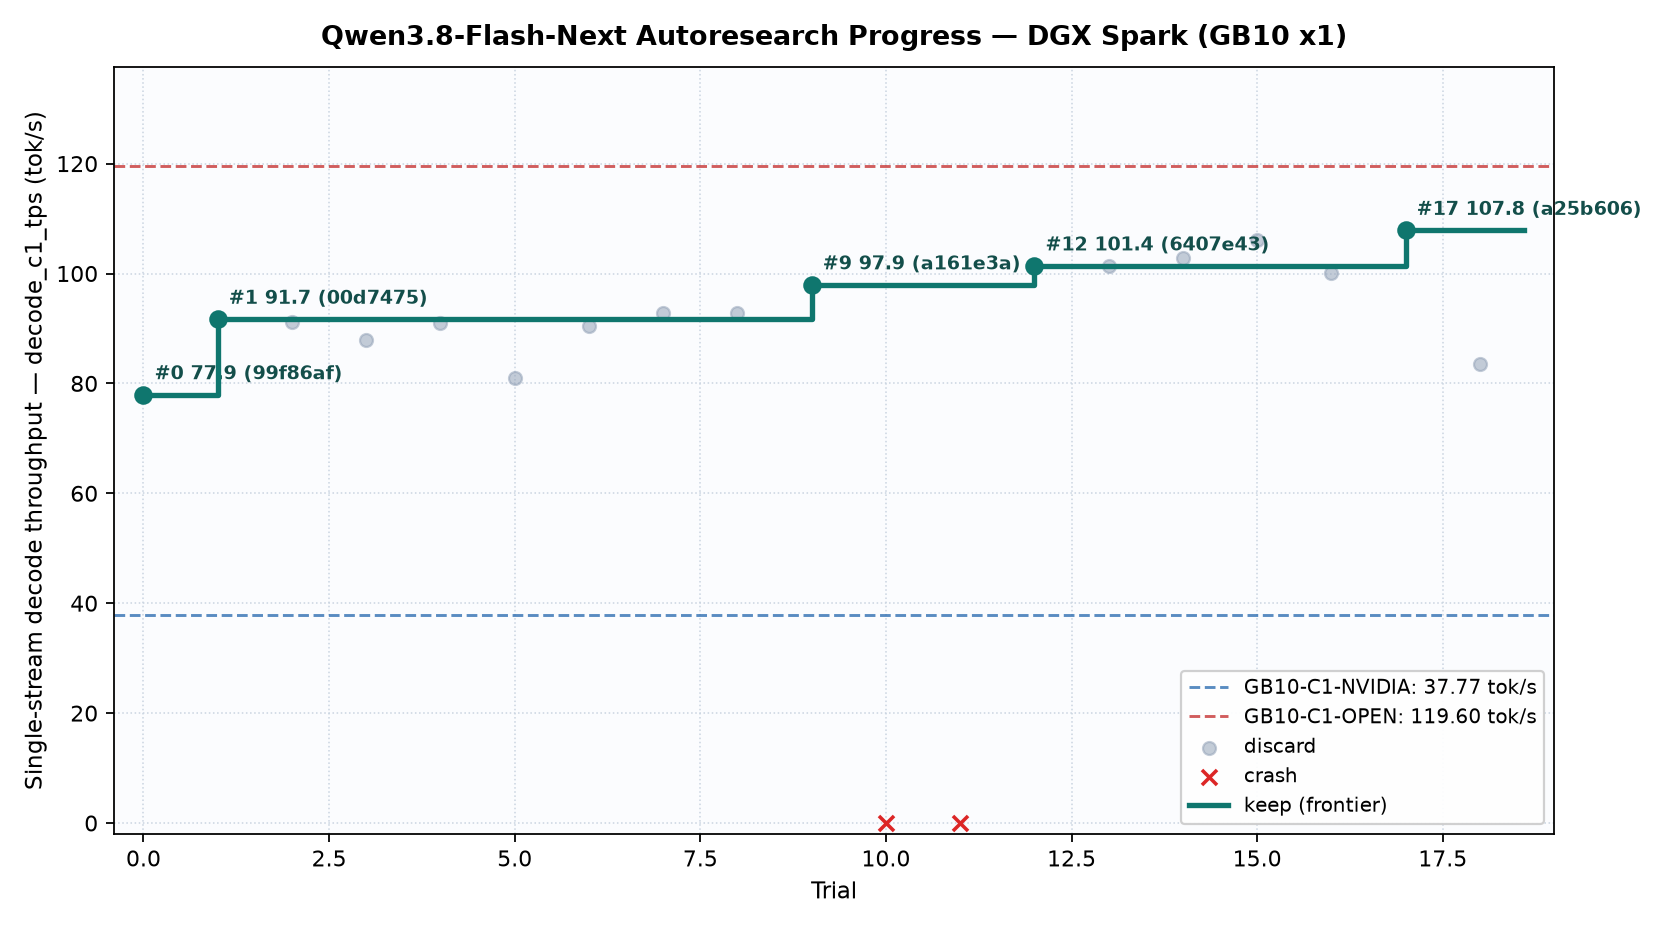
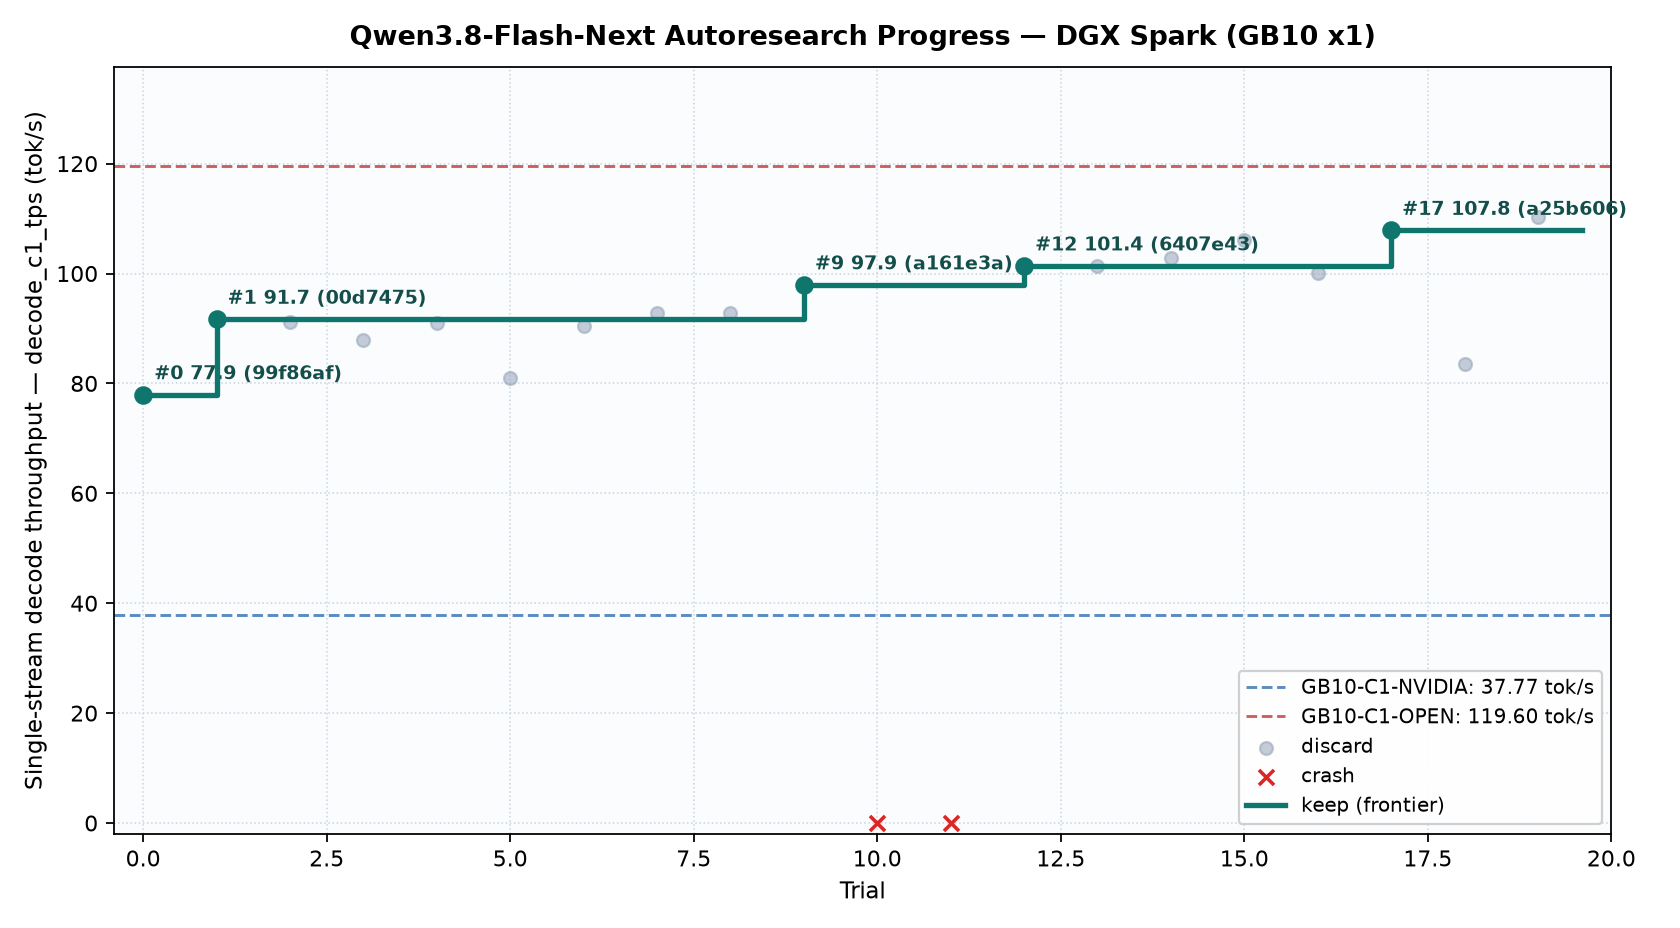
spark trial 19: discard

diff --git a/records/research-log.md b/records/research-log.md
@@ -30,3 +30,4 @@ Every trial appends a 1-line check of upstream inference engines (`vllm-project/
 | 2026-11-19 13:29 | 16 (new stack) | <https://github.com/ashhart/TensorFold/blob/v1.2.9/zig/kernels/cuda/qmmf.cu>, <https://github.com/vllm-project/vllm/commit/7a59edd8>, <https://github.com/sgl-project/sglang/commit/5b478f17>, <https://github.com/NVIDIA/TensorRT-LLM/commit/21b4f997> | Six-engine check (`vllm` `7a59edd8`/`0aecc818`, `sglang` `5b478f17`, `TensorRT-LLM` `21b4f997`, `llama.cpp` `08c252e2`, `TensorFold` `a1781885`, `hibana` `d474b74d`): Trial 15 (`afaecbfa`) achieved `106.17 tok/s` (`+4.73%`), `c4=178.96` (`+16.1%`), and `10/10` (`100%`) on `G40` before hitting frozen `run_trial.sh` `CAP_SEC=1200`s (`guard.py --clients 2` + `xhigh` thinking generates up to `19.9k` tokens/item; proposal for human orchestrator: pass `--clients 8` with `GUARD_PARALLEL=8` or raise `G40` `CAP_SEC` to `3600`s for non-`hash_match` trials); across all `7.22 GB` target BF16 tensors (`linear_attn`, `self_attn`, `shared_expert`, `ple`, `hc`), non-zero biased exponents within every `(row, 64-col)` group satisfy `0 <= emax - exp <= 25 <= 30` (`100.000%` coverage). | Adopted in trial 16 (`Mode::BF13` lossless `13.125`-bit group-64 delta-exponent BF16 compression with `bf16x2` `__byte_perm` SIMD unpack, `BN=32` half-tiles, and strided `shared_down_bf13` for `100%` bit-exact target logits and `hash_match=1`, plus `FP8G` least-squares MTP drafter with `BN=32` half-tiles/strided `shared_down_fp8g`/`sk=1` `fc`, 32K PLE cache, and `CONFIDENCE=-0.18`). |
 | 2026-11-19 14:32 | 17 (new stack) | <https://github.com/ashhart/TensorFold/pull/3475>, <https://github.com/ashhart/TensorFold/pull/2266>, <https://github.com/NVIDIA/TensorRT-LLM/commit/6029a0d8>, <https://github.com/vllm-project/vllm/commit/cf2e8d03> | Six-engine check (`vllm` `cf2e8d03`, `sglang` `27997a87`, `TensorRT-LLM` `2672c80c`/`6029a0d8`, `llama.cpp` `b12532`, `TensorFold` `a1781885`/PR `#3475`/`#2266`, `hibana` `d474b74d`): Trial 16 `BF13` cut round time `93.1 -> 88.2 ms` (`-5.2%`) at `hash_match=1` (masked by `FP8G` MTP + `CONFIDENCE=-0.18` adding `42 -> 45` rounds); checkpoint audit shows `H64=2.6-2.9b` and `delta_exp>=15` is only `0.01%`, enabling lossless `12.125`-bit `BF12` (`6144B` tiles, `-24.2%` DRAM, `3` CTAs/SM, 5-op fast unpack + `0.01%` sparse escape table + `128x128` prompt tile); PR `#3475` adds bit-exact fused split-K (`TF_FLASHNEXT_FUSED_SPLIT=1`). | Adopted in trial 17 (lossless `Mode::BF12` on all `7.22 GB` target BF16 weights with half-tiles, strided `shared_down`, and `128x128` prompt tiles, PR `#3475` fused split-K, MXFP8 MTP drafter + MTP HC MXFP8 + direct `sk=1` `fc`, and 32K PLE cache + async pre-gather; `hash_match=1`). |
 | 2026-11-19 15:02 | 18 (new stack) | <https://github.com/ashhart/TensorFold/blob/v1.2.9/zig/src/families/flashnext/cuda_mtp.zig>, <https://github.com/sgl-project/sglang/commit/f49d6c49>, <https://github.com/vllm-project/vllm/commit/9c1d45c2>, <https://github.com/ashhart/TensorFold/commit/6db2561b> | Six-engine check (`vllm` `9c1d45c2`, `sglang` `981becd7`/`f49d6c49`, `TensorRT-LLM` `8ba86b8b`, `llama.cpp` `08c252e2`, `TensorFold` `6db2561b`, `hibana` `d474b74d`): Trial 17 (`BF12` + PR `#3475` + PLE cache) jumped `+6.38%` to `107.84 tok/s` (`87.14 ms/round`, `c4=159.23`, `hash_match=1`), with `42` rounds and `accepted=357/576` (`13.71/14.0` drafts/round, saturated at the `max_chain=15` cap while `max_rows=32`/`late_rows=48` buffers already hold `31` drafts); `cuobjdump` showed `BF12` `BM=32` had `8B` stack spill from inlined `bf12_esc_lookup`; real `lm_head` audit showed `W2` g32 E4M3 FP8 scales keep `8.48 dB` vs `8.49 dB` BF16 at `-10%` bytes (`57.6 MB`), and fusing `W2` gemv + top-64 exact rescore + `best` eliminates `fn_row_topk` and `fn_row_best` inside the MTP CUDA graph. | Adopted in trial 18 (raise `max_chain` `15->31` with `DRAFTS_GREEDY=28`, NVFP4 MTP `self_attn` + `shared_expert`, fused 2.25-bit E4M3 `W2` + single-block rescore-to-`best` inside MTP CUDA graph, `__noinline__` `BF12` cold escape path eliminating `BM=32` stack spill, `TF_FLASHNEXT_ATTN_LANES=1`, and `TF_FLASHNEXT_WARM_AHEAD=1`; `hash_match=1`). |
+| 2026-11-19 15:16 | 19 (new stack) | <https://github.com/ashhart/TensorFold/blob/v1.2.9/zig/kernels/cuda/nvfp4_experts.cu>, <https://github.com/ashhart/TensorFold/blob/v1.2.9/zig/src/cuda/experts_waves.zig>, <https://github.com/ggml-org/llama.cpp/commit/573aa89d>, <https://github.com/sgl-project/sglang/commit/1ed3e1d0> | Six-engine check (`vllm` `9c1d45c2`, `sglang` `1ed3e1d0`/`981becd7`, `TensorRT-LLM` `8ba86b8b`, `llama.cpp` `573aa89d`, `TensorFold` `6db2561b`, `hibana` `d474b74d`): Trial 18 log isolated `NVFP4 MTP self_attn` + `DRAFTS_GREEDY=28` as the C1 regression (`rounds=46, 353/982` vs Trial 17 `42, 357/576`, `c4` also dropped `65->68` rounds from NVFP4 self_attn), while `__noinline__ BF12` + `ATTN_LANES=1` + `WARM_AHEAD=1` boosted `c8` (`210.9->212.8`), `c16` (`246.4->257.9`, `+4.7%`), `ttft` (`0.190->0.182s`), and `prefill` (`1444->1496`); `nvfp4_experts.cu` calls slow software `e4m3f` 32x/stage + zero-init `mma` + static wave truncation that drops ~30% of resident warps, while `WARPS=1` dynamic 1-warp CTA grid yields 20-25 warps/SM and full hardware load balancing; `BF12` `STAGES=3` raises SMEM occupancy `3->4` CTAs/SM (`BM=16`) and `1->2` CTAs/SM (`BM=64`). | Adopted in trial 19 (keep exact MXFP8 MTP `self_attn`/`shared_expert`/`HC`, `DRAFTS_GREEDY=15` filling `BM=16`, fused 2.25-bit E4M3 `W2` directly to `d.best` inside MTP CUDA graph, `nvfp4_experts.cu` + `qmmf.cu` bit-exact `fp8pair_unit` scale decode + `mma0` + `WARPS=1` uncapped dynamic CTA grid, `BF12` `STAGES=3` + `__noinline__` escape + pre-shifted `em_sh`, `TF_FLASHNEXT_ATTN_LANES=1`, `TF_FLASHNEXT_WARM_AHEAD=1`; `hash_match=1`). |
